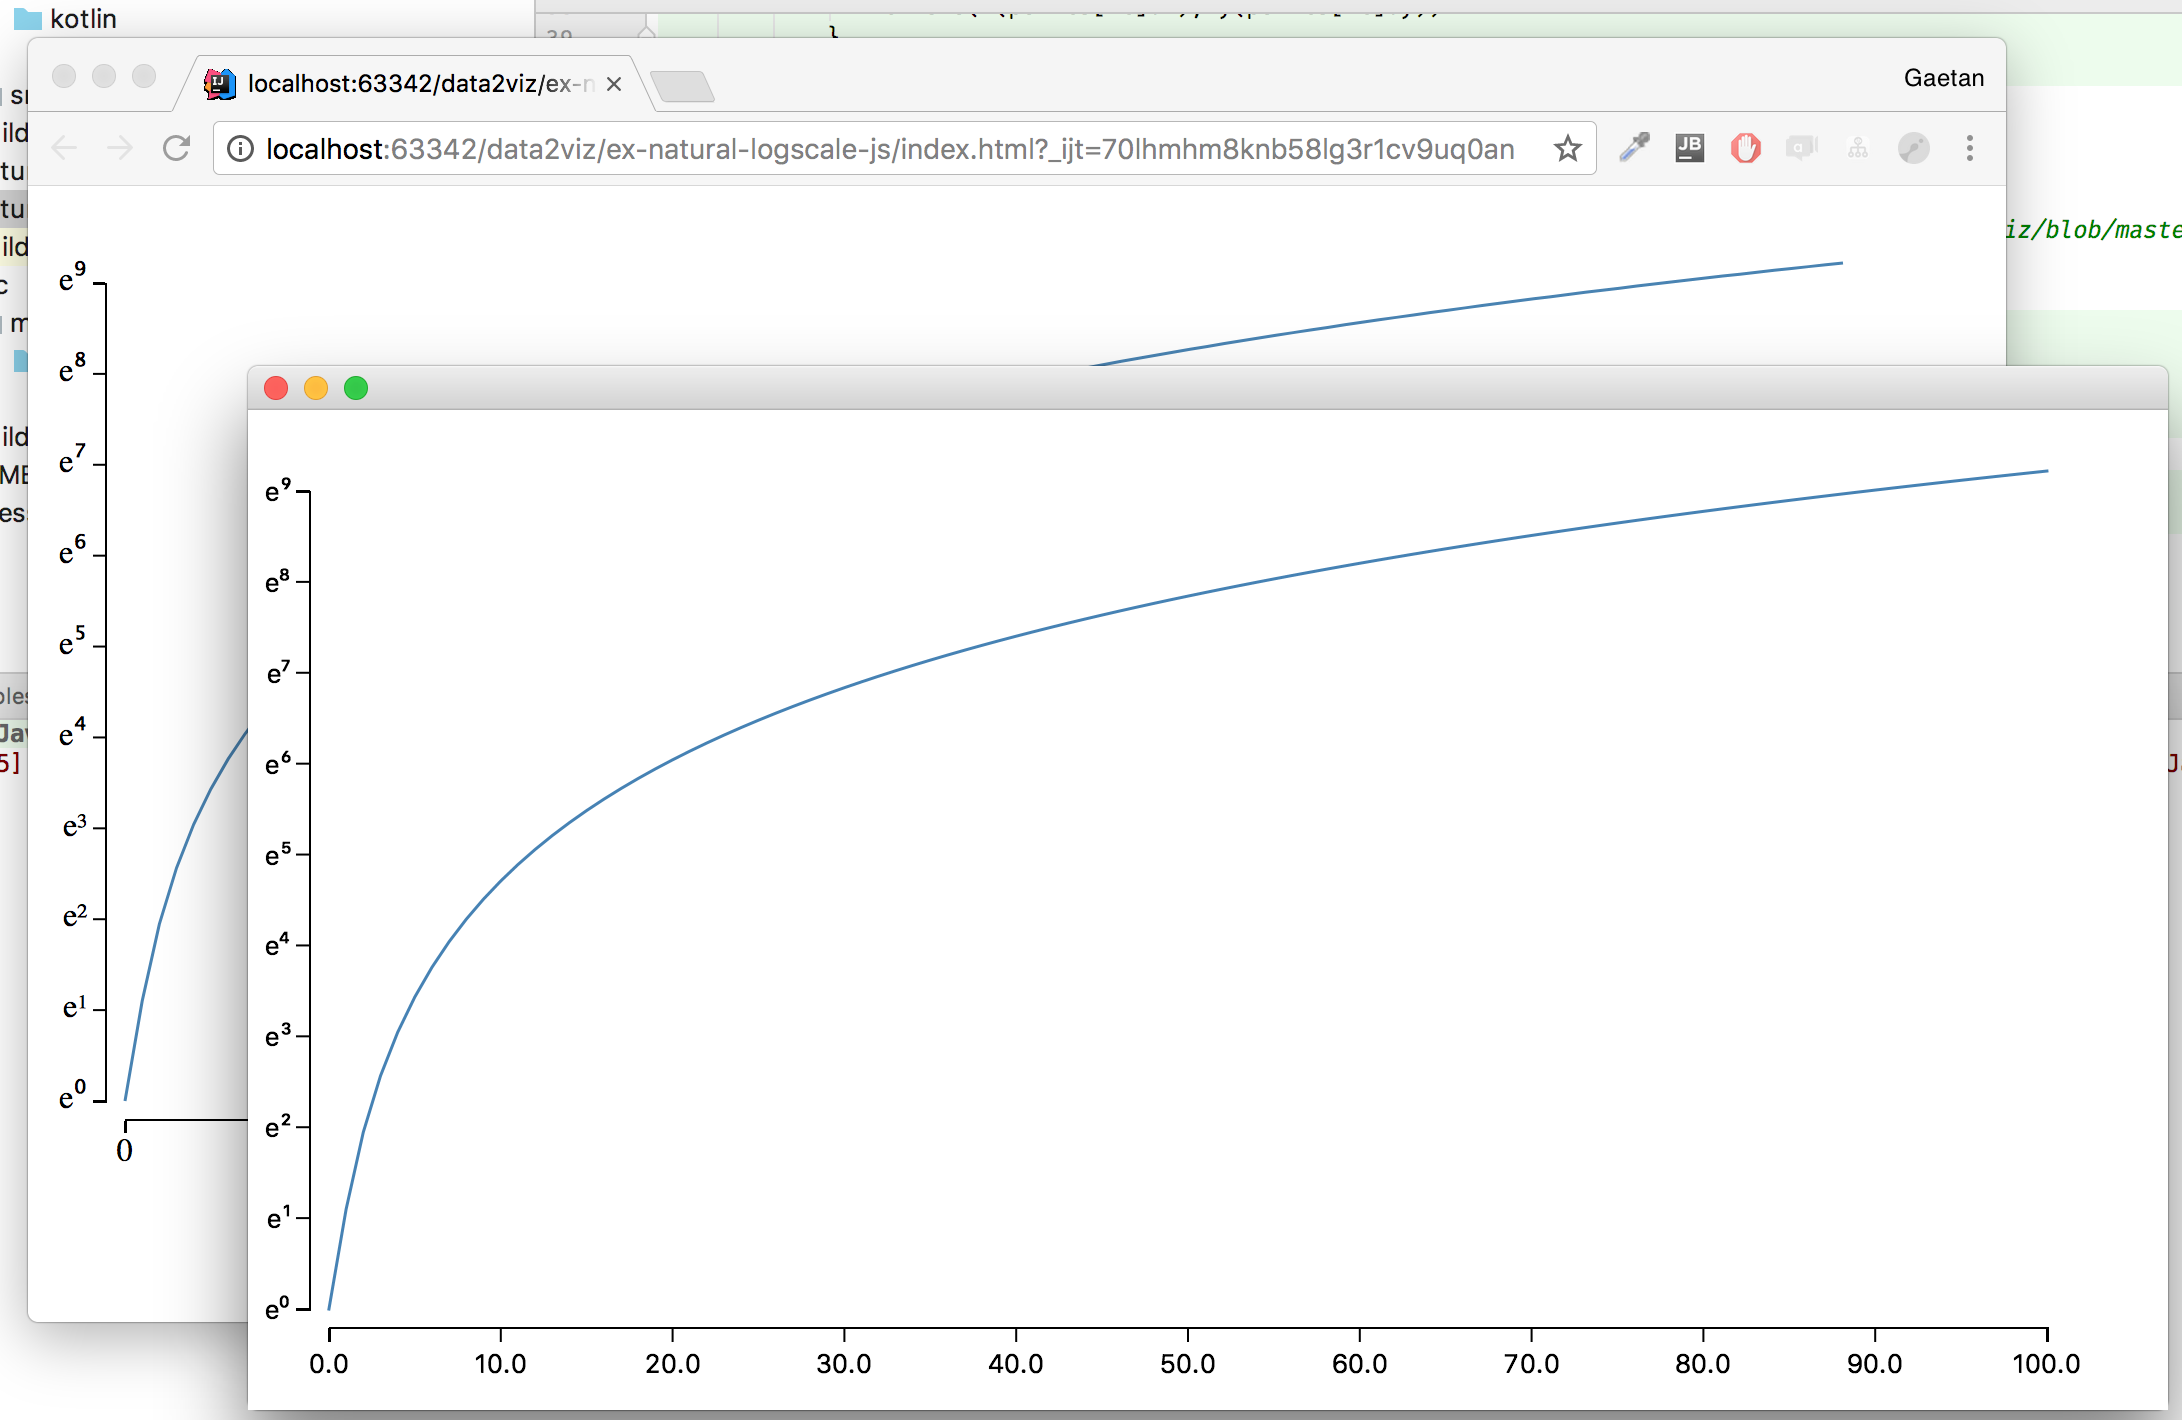
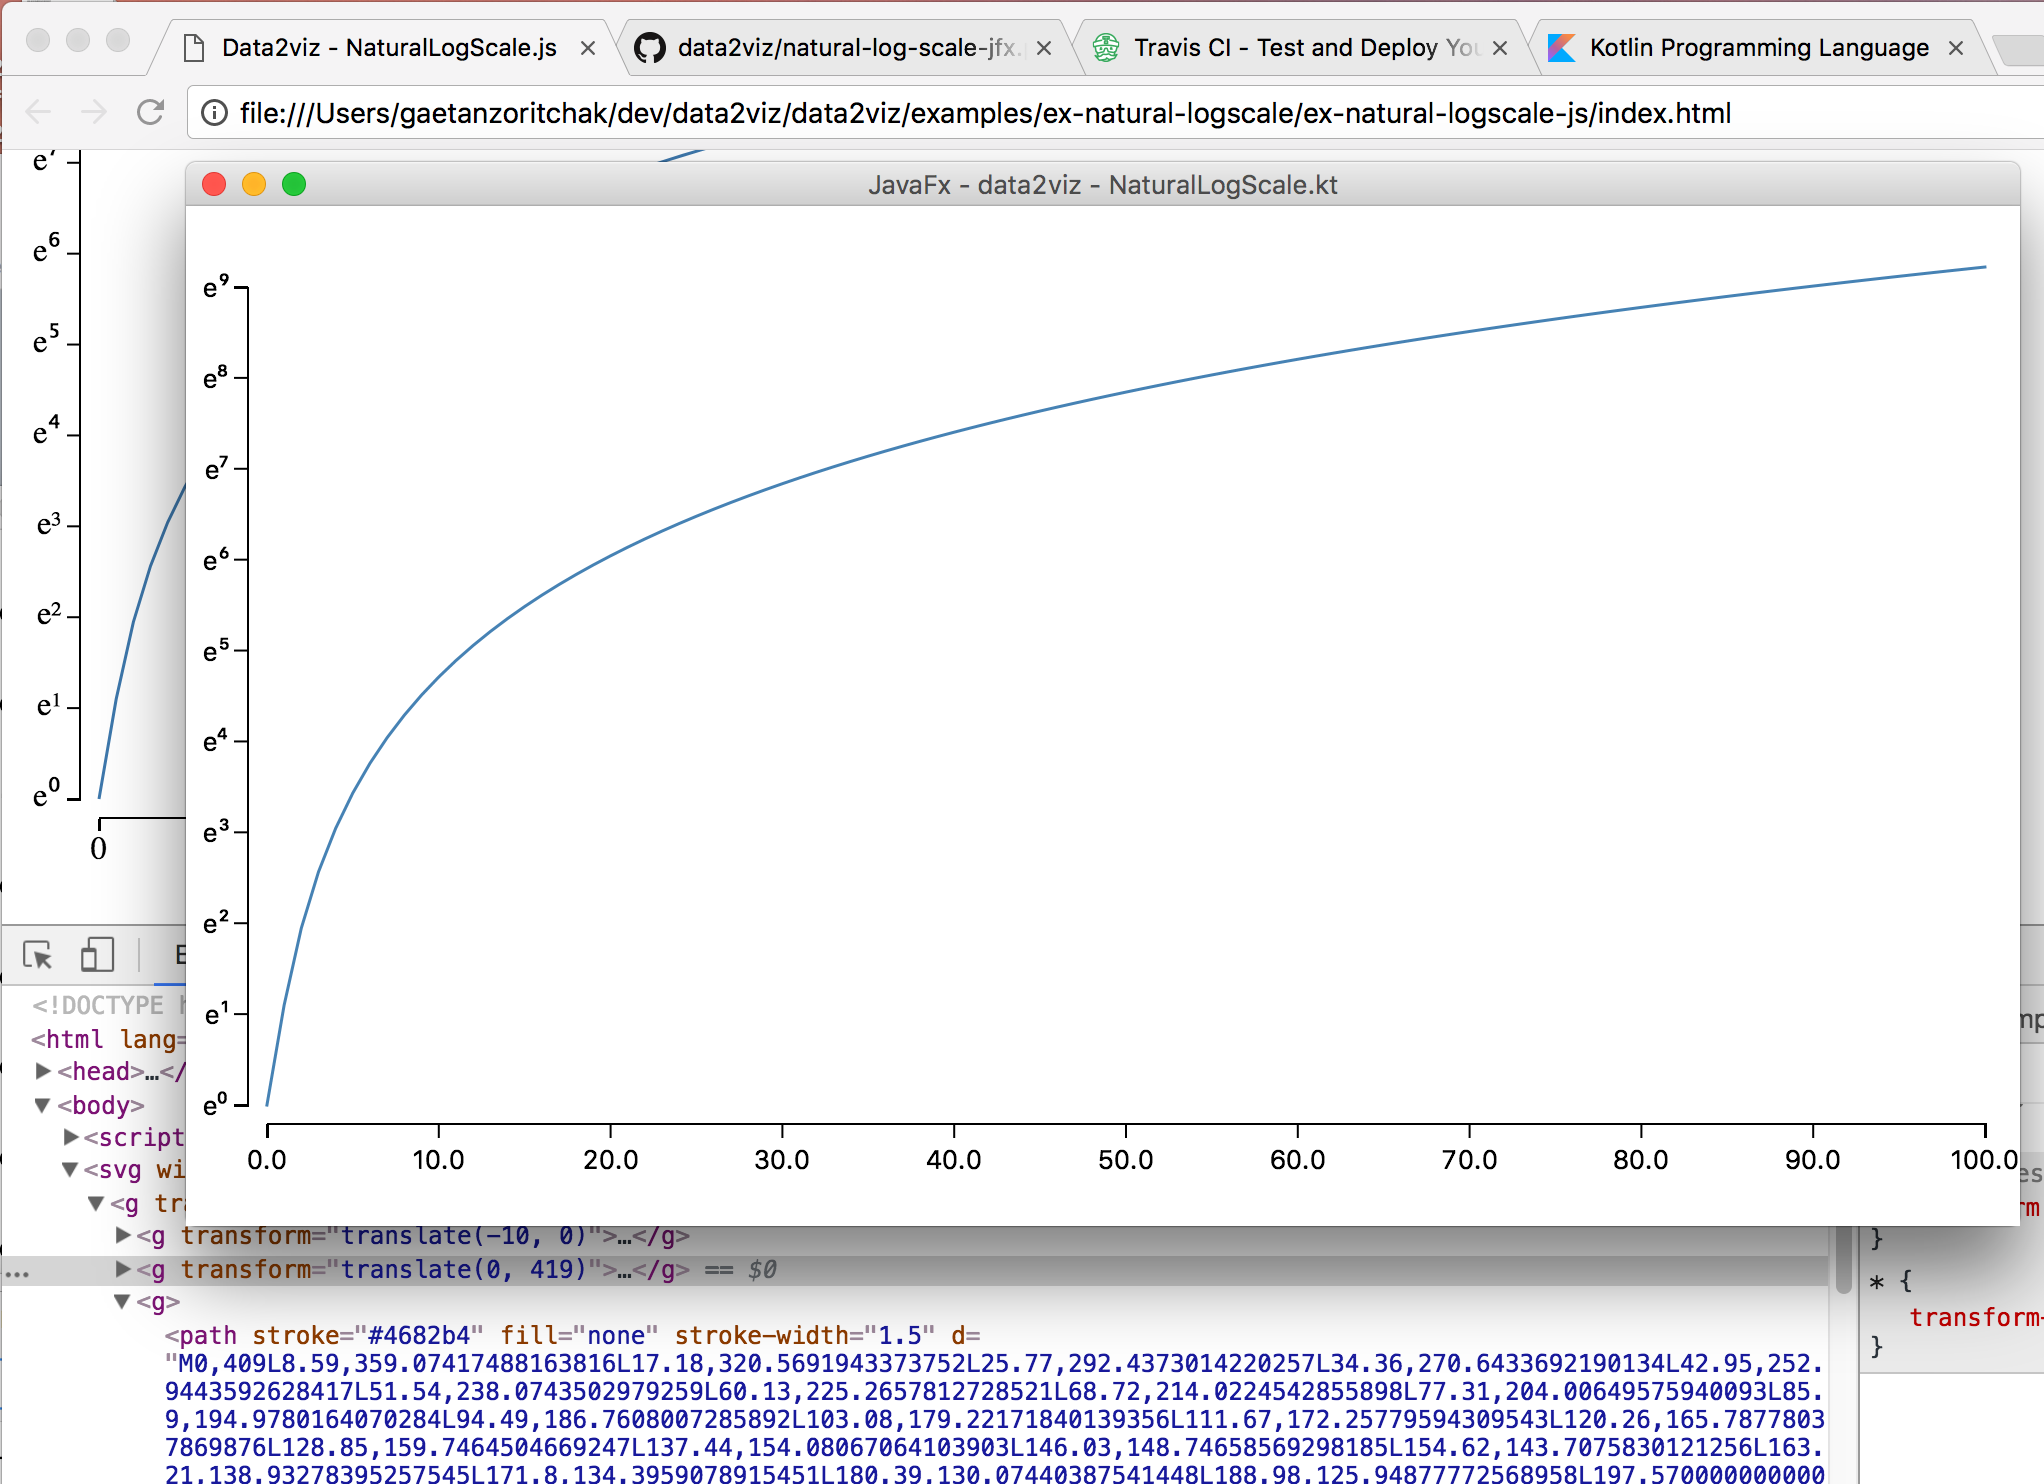
Documentation: makes things clearer.

Changed region(s): [[0.0, 0.0, 1.0, 1.0], [0.7397, 0.1859, 0.863, 0.2169]]

diff --git a/examples/ex-natural-logscale/ex-natural-logscale-common/src/main/kotlin/NaturalLogScale.kt b/examples/ex-natural-logscale/ex-natural-logscale-common/src/main/kotlin/NaturalLogScale.kt
@@ -17,13 +17,13 @@ val height = 500.0 - margins.vMargins
 
 
 // linear scale domain 0..100 is mapped to 0..width
-val x = scaleLinear {
+val xScale = scaleLinear {
     domain = listOf(.0, 100.0)
     range = listOf(.0, width)
 }
 
 // log scale
-val y = scaleLog(kotlin.math.E) {
+val yScale = scaleLog(kotlin.math.E) {
     domain = listOf(kotlin.math.exp(0.0), kotlin.math.exp(9.0))
     range = listOf(height, .0) // <- y is mapped in the reverse order (in SVG, javafx (0,0) is top left.
 }
@@ -45,9 +45,8 @@ fun VizContext.naturalLogScale() {
         transform {
             translate(x = -10.0)
         }
-        axis(Orient.LEFT, y) {
-            //we use our own formatter in order to provide exponents (ex: e¹)
-            tickFormat = { "e${superscript[round(ln(it)).toInt()]}" }
+        axis(Orient.LEFT, yScale) {
+            tickFormat = { "e${superscript[round(ln(it)).toInt()]}" } // <- specific formatter to add exponents (ex: e¹)
         }
     }
 
@@ -55,19 +54,18 @@ fun VizContext.naturalLogScale() {
         transform {
             translate(y = height + 10.0)
         }
-        //default axis. Labels are provided by the x scale. 
-        axis(Orient.BOTTOM, x)
+        axis(Orient.BOTTOM, xScale)       // <- default axis. Labels are provided by the x scale.
     }
 
     group {
-        path { //the curve is rendered with a path.
+        path {                            // <- the curve is rendered with a path.
             fill = null
-            stroke = colors.steelblue
+            stroke = colors.steelblue     // <- code completion due to typed system
             strokeWidth = 1.5
 
-            moveTo(x(points[0].x), y(points[0].y))
+            moveTo(xScale(points[0].x), yScale(points[0].y))
             (1..100).forEach {
-                lineTo(x(points[it].x), y(points[it].y))
+                lineTo(xScale(points[it].x), yScale(points[it].y))
             }
         }
     }

diff --git a/examples/ex-natural-logscale/ex-natural-logscale-jvm/src/main/kotlin/NaturalLogScaleJvm.kt b/examples/ex-natural-logscale/ex-natural-logscale-jvm/src/main/kotlin/NaturalLogScaleJvm.kt
@@ -16,16 +16,17 @@ class NaturalLogScale : Application() {
         }
     }
 
-    override fun start(primaryStage: Stage?) {
+    override fun start(stage: Stage?) {
         val root = Group()
 
         root.viz {
             naturalLogScale()
         }
 
-        primaryStage?.let {
+        stage?.let {
             it.scene = (Scene(root, width + margins.hMargins, height + margins.vMargins))
             it.show()
+            stage.title = "JavaFx - data2viz - NaturalLogScale.kt"
         }
     }
 

diff --git a/examples/ex-natural-logscale/ex-natural-logscale-js/index.html b/examples/ex-natural-logscale/ex-natural-logscale-js/index.html
@@ -2,6 +2,7 @@
 <html lang="en">
 <head>
     <meta charset="UTF-8">
+    <title>Data2viz - NaturalLogScale.js</title>
     <script src="https://cdnjs.cloudflare.com/ajax/libs/require.js/2.3.5/require.min.js"></script>
 </head>
 <body>

diff --git a/examples/ex-natural-logscale/README.md b/examples/ex-natural-logscale/README.md
@@ -6,43 +6,41 @@ and then is just rendered in JavaFx or Js SVG element.
 
 <img src="docs/natural-log-scale-jfx.png" width="900">
 
-This is the code that manage visual elements: [<>](https://github.com/data2viz/data2viz/blob/master/examples/ex-natural-logscale/ex-natural-logscale-common/src/main/kotlin/NaturalLogScale.kt)
+This is the code that manage
+ visual elements: [<>](https://github.com/data2viz/data2viz/blob/master/examples/ex-natural-logscale/ex-natural-logscale-common/src/main/kotlin/NaturalLogScale.kt)
 
 ```kotlin
-    group {
-        transform {
-            translate(x = -10.0)
-        }
-        axis(Orient.LEFT, y) {
-            //we use our own formatter in order to provide exponents (ex: e¹)
-            tickFormat = { "e${superscript[round(ln(it)).toInt()]}" }
-        }
-    }
+  group {
+      transform {
+          translate(x = -10.0)
+      }
+      axis(Orient.LEFT, yScale) {
+          tickFormat = { "e${superscript[round(ln(it)).toInt()]}" } // <- specific formatter to add exponents (ex: e¹)
+      }
+  }
 
-    group {
-        transform {
-            translate(y = height + 10.0)
-        }
-        //default axis. Labels are provided by the x scale. 
-        axis(Orient.BOTTOM, x)
-    }
+  group {
+      transform {
+          translate(y = height + 10.0)
+      }
+      axis(Orient.BOTTOM, xScale)       // <- default axis. Labels are provided by the x scale.
+  }
 
-    group {
-        path { //the curve is rendered with a path.
-            fill = null
-            stroke = colors.steelblue
-            strokeWidth = 1.5
+  group {
+      path {                            // <- the curve is rendered with a path.
+          fill = null
+          stroke = colors.steelblue     // <- code completion due to typed system
+          strokeWidth = 1.5
 
-            moveTo(x(points[0].x), y(points[0].y))
-            (1..100).forEach {
-                lineTo(x(points[it].x), y(points[it].y))
-            }
-        }
-    }
-
+          moveTo(xScale(points[0].x), yScale(points[0].y))
+          (1..100).forEach {
+              lineTo(xScale(points[it].x), yScale(points[it].y))
+          }
+      }
+  }
 ```
 
-It's the possible to bootstrap this code inside the DOM :[<>](https://github.com/data2viz/data2viz/blob/master/examples/ex-natural-logscale/ex-natural-logscale-js/src/main/kotlin/NaturalLogScaleJs.kt)
+It's then possible to bootstrap this code inside the DOM :[<>](https://github.com/data2viz/data2viz/blob/master/examples/ex-natural-logscale/ex-natural-logscale-js/src/main/kotlin/NaturalLogScaleJs.kt)
 
 ```kotlin
     val root = selectOrCreateSvg().apply {
